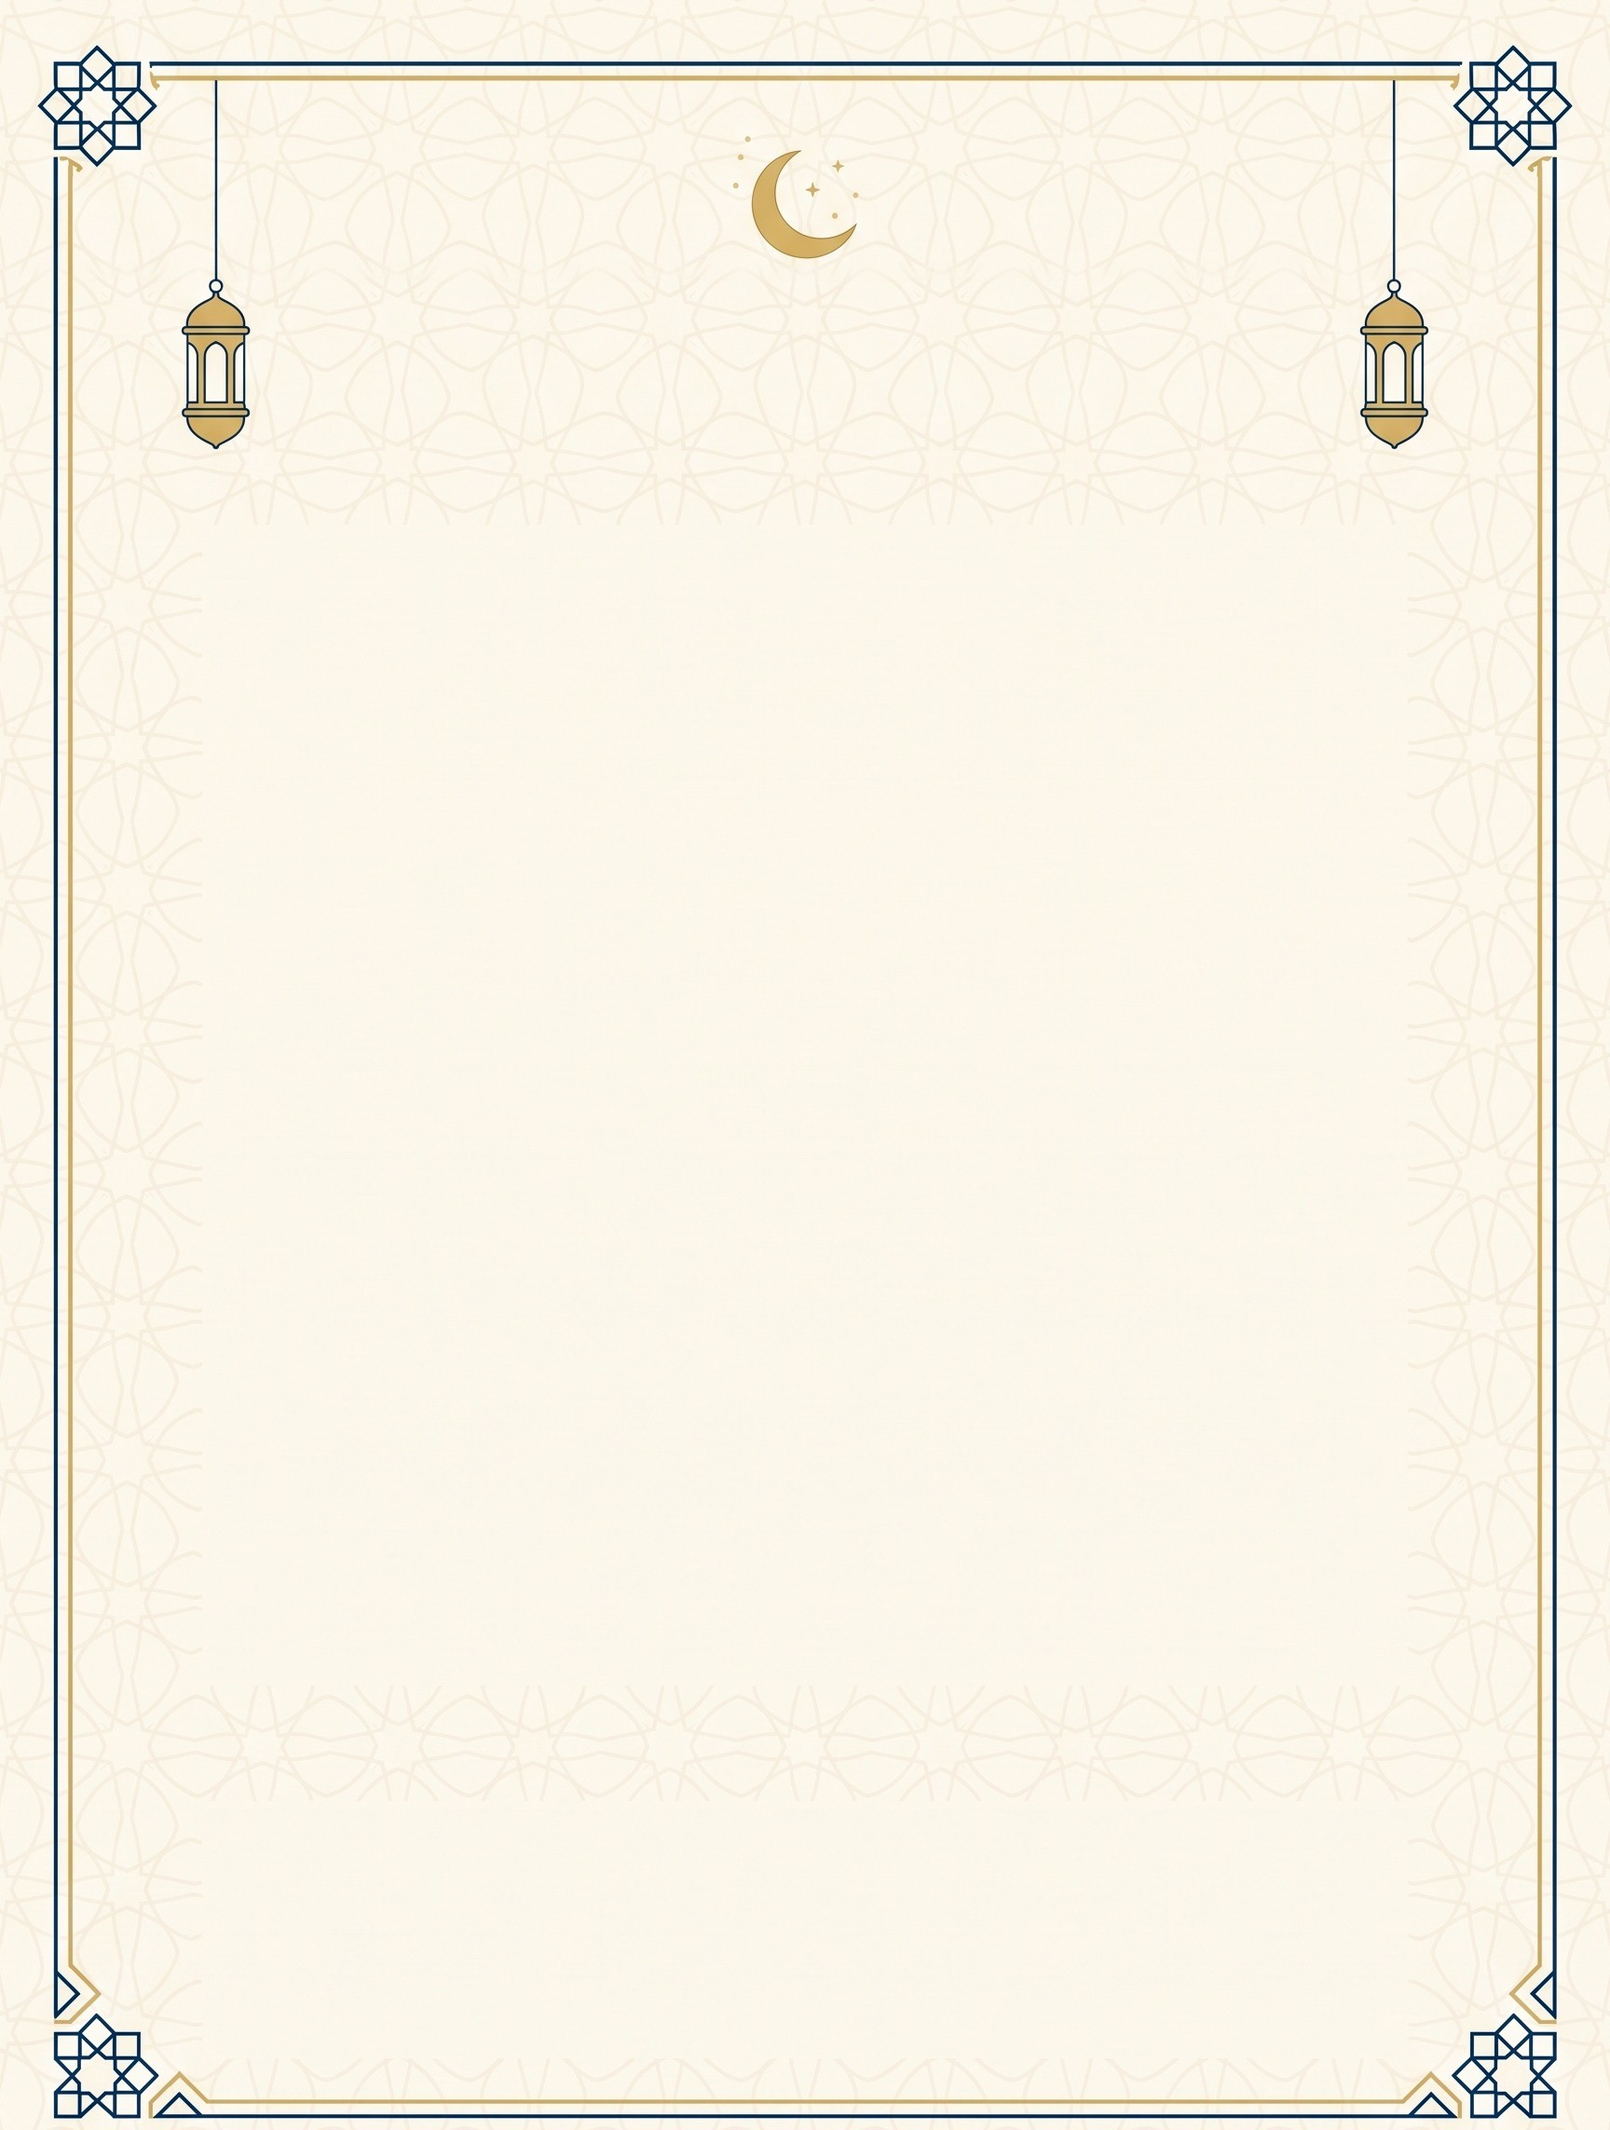
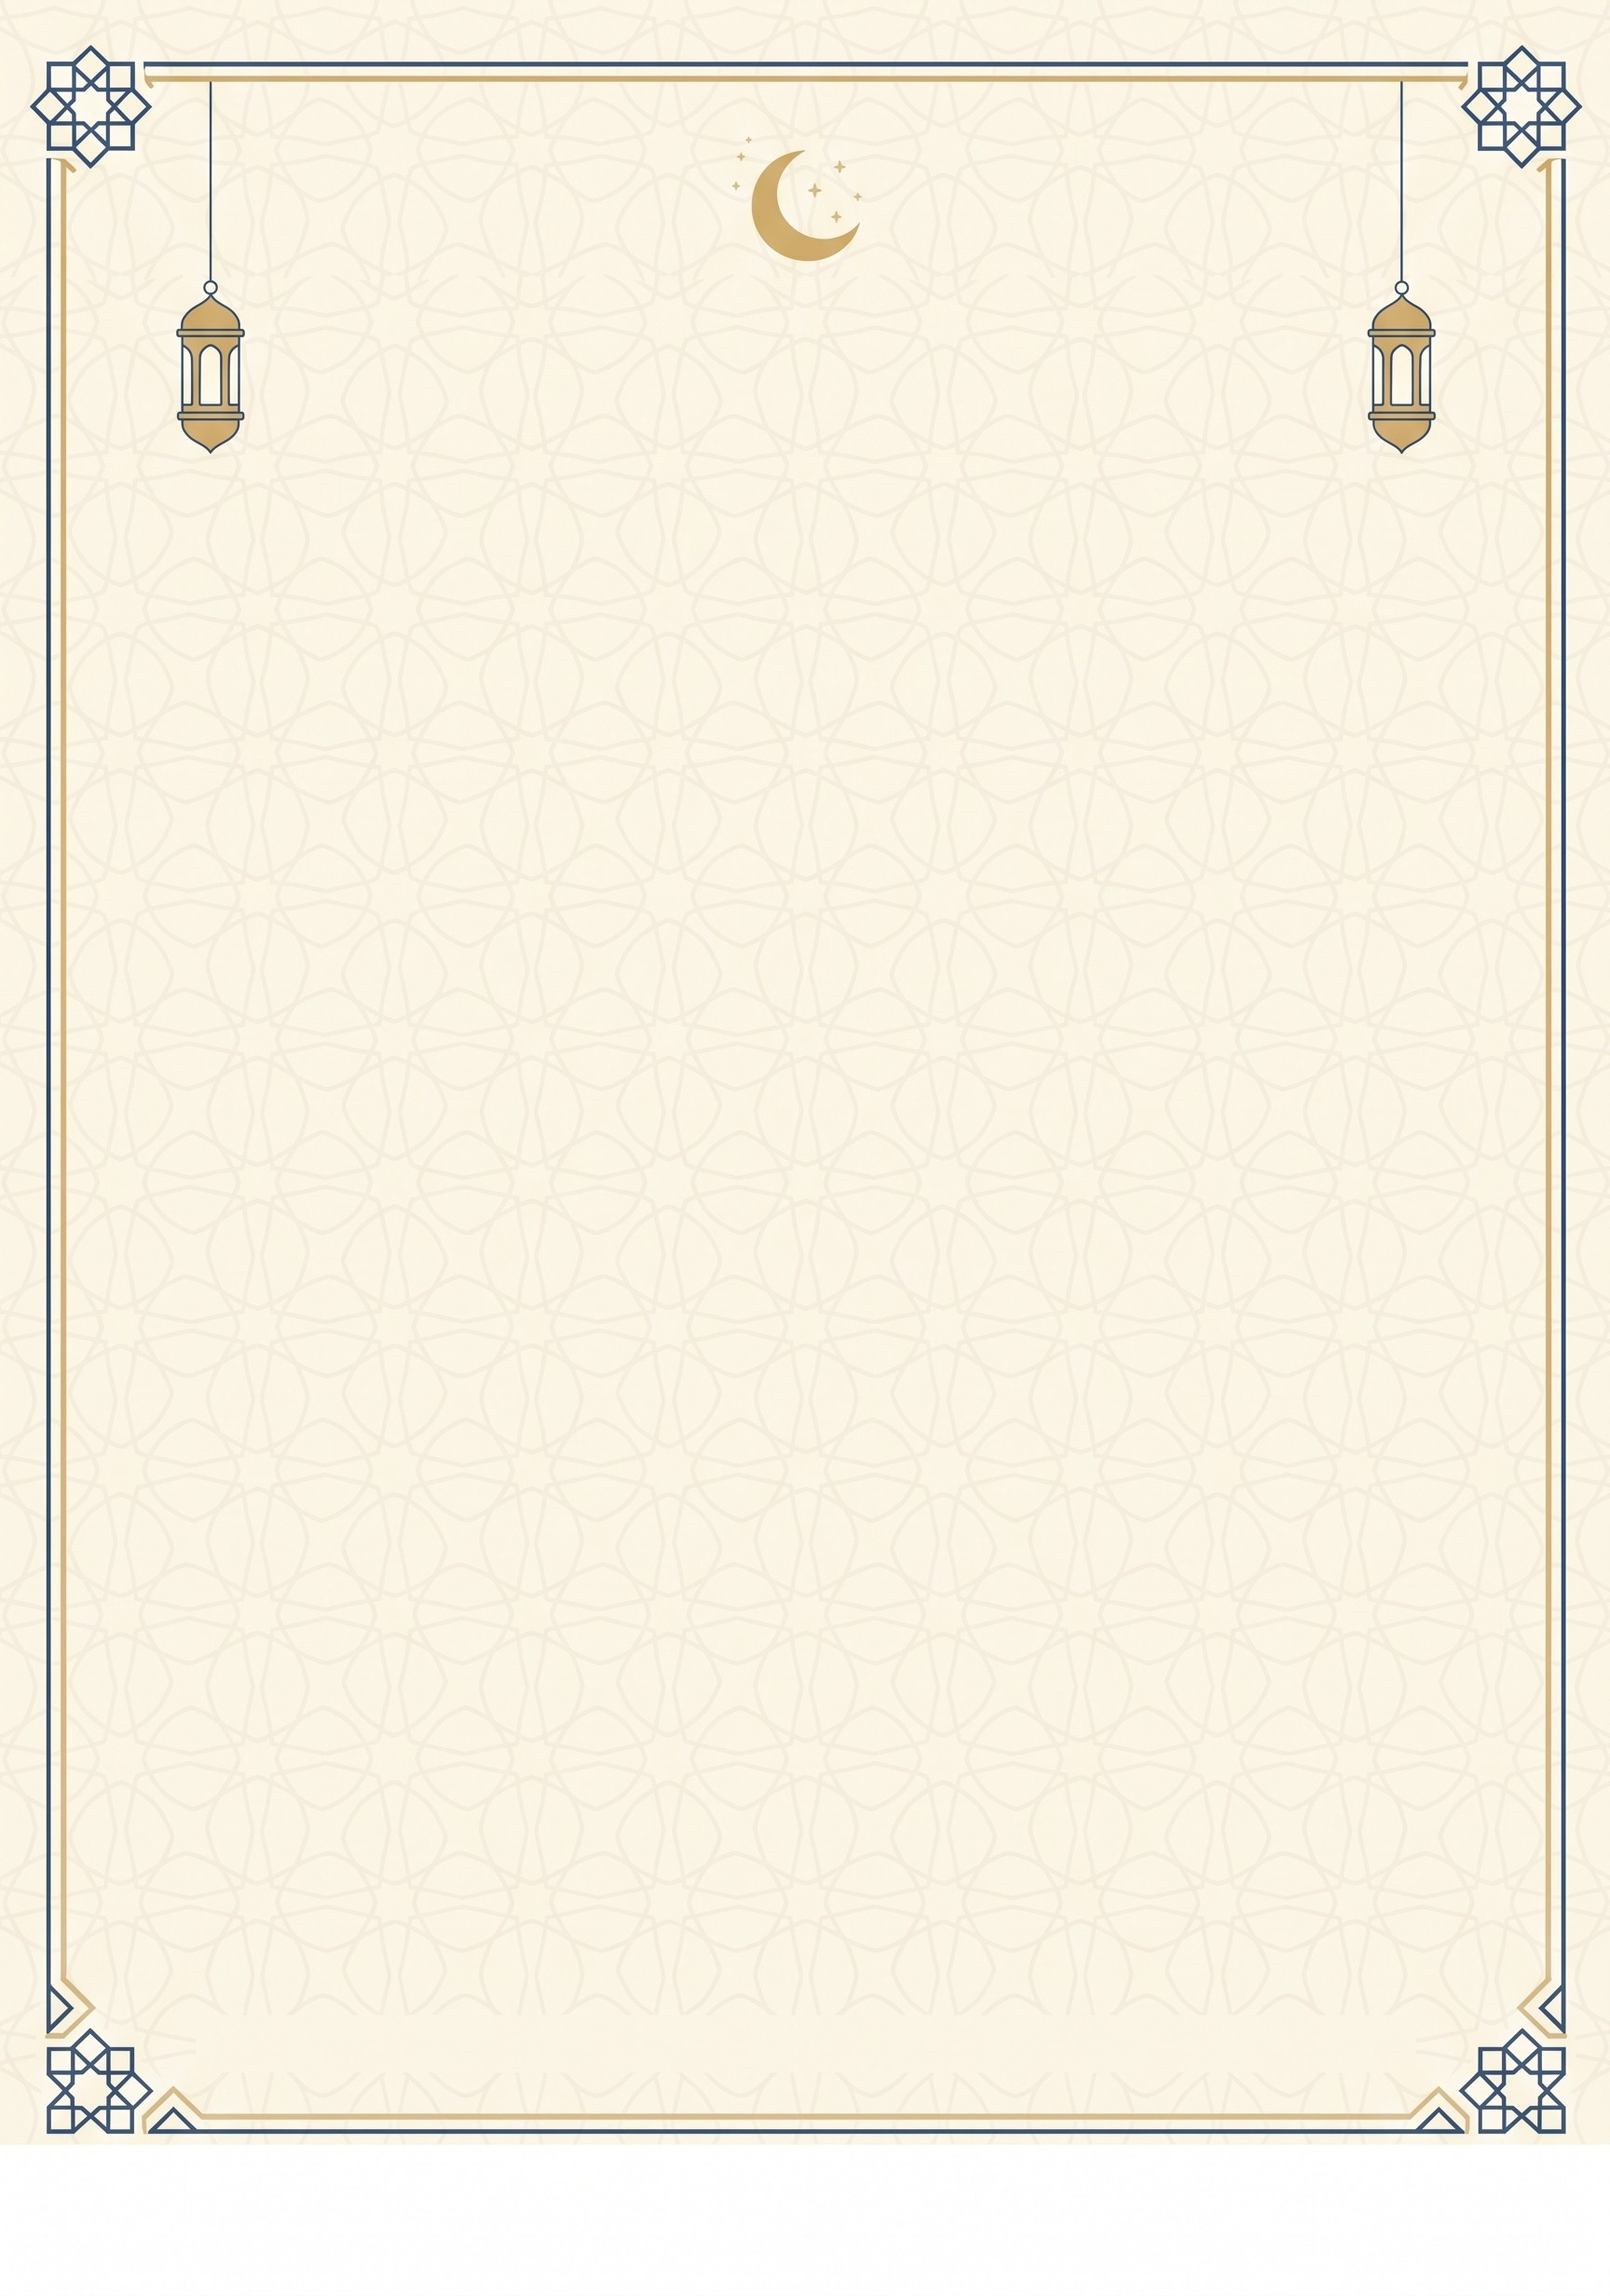
style: feuille Ramadan sur le fond final (lanternes hautes, bande blanche intégrée à l'image)

Changed region(s): [[0.0, 0.0, 1.0, 1.0]]

diff --git a/css/ramadan.css b/css/ramadan.css
@@ -67,16 +67,16 @@ body {
     height: 297mm;
     display: grid;
     /* zones calées sur l'image de fond : titre | tableau | invocation + identité */
-    --footer-h: 20mm; /* bande blanche de l'identité, sous l'image */
+    --footer-h: 20mm; /* bande blanche de l'identité, en bas de l'image */
     grid-template-rows: 64mm 1fr auto;
     grid-template-columns: minmax(0, 1fr); /* le contenu ne peut pas élargir la page */
     position: relative;
     /* version papier : voile blanc sur l'image pour économiser l'encre (retiré en version numérique) */
     --bg-veil: rgb(255 255 255 / 0.45);
-    /* l'image (recadrée sous son cadre) occupe la page moins la bande blanche, sans déformation visible */
+    /* image pleine page au format A4, bande blanche de l'identité comprise */
     background:
-        linear-gradient(var(--bg-veil), var(--bg-veil)) top / 100% calc(100% - var(--footer-h)) no-repeat,
-        white url('../assets/img/ramadan-background.jpg') top / 100% calc(100% - var(--footer-h)) no-repeat;
+        linear-gradient(var(--bg-veil), var(--bg-veil)),
+        white url('../assets/img/ramadan-background.jpg') center / 100% 100% no-repeat;
 }
 
 @media screen {
